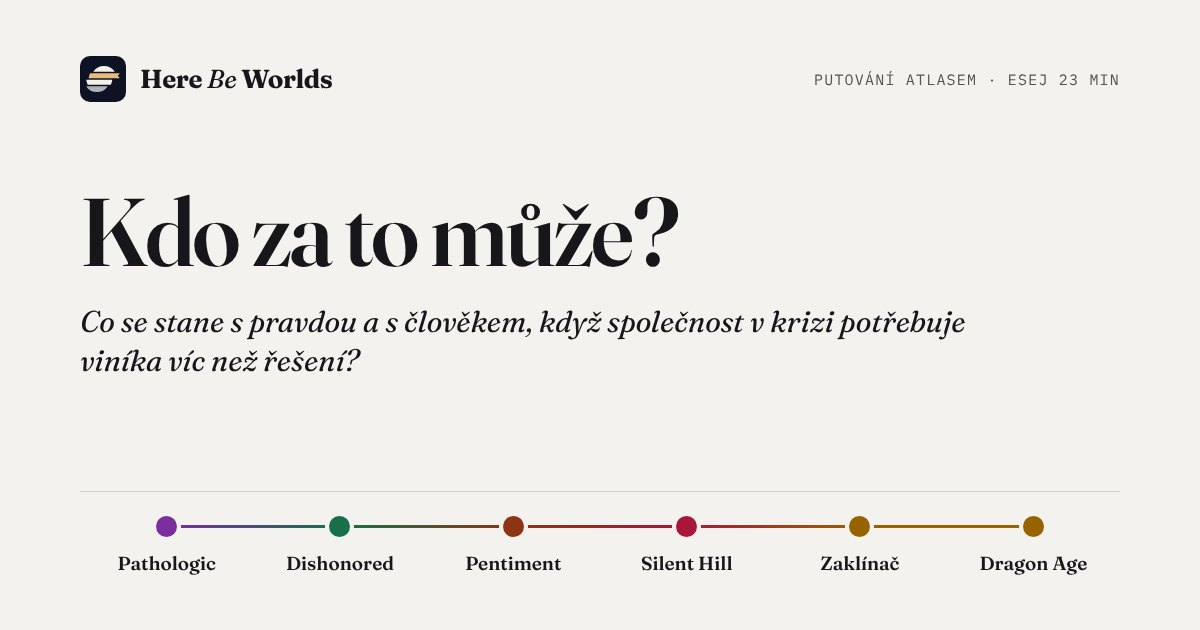
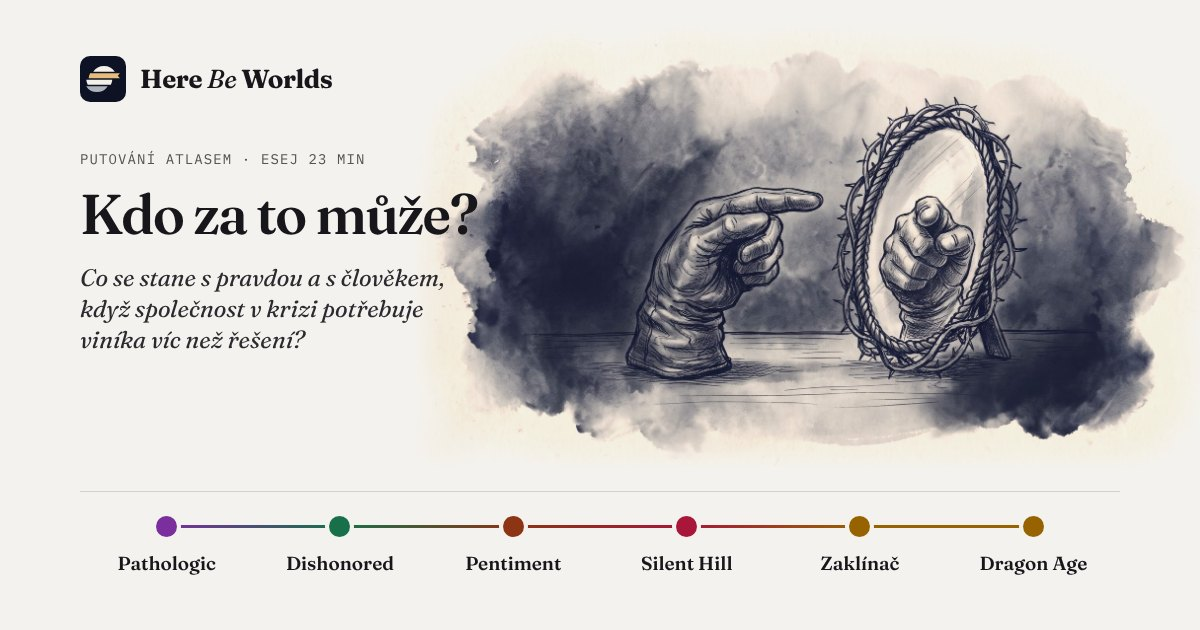
Obrázky k putování Kdo za to může?: zrcátko, koberec nad jámou, beránek z kouře
Claude-Session: https://claude.ai/code/session_01B7obWLKHHEWxurZ5a1svnf

diff --git a/src/lib/trail-images.ts b/src/lib/trail-images.ts
@@ -21,6 +21,7 @@ export const READY: Record<TrailId, number> = {
   'monster-mirror': 1,
   'god-corpse': 3,
   'knows-you-play': 3,
+  scapegoat: 3,
 };
 
 const DIR = 'putovani-obrazky';

diff --git a/CLAUDE.md b/CLAUDE.md
@@ -83,7 +83,7 @@ Kroniky a eseje **nejsou** v `data/`.
 | `/notes/` | `src/pages/notes/index.astro` | `NotesPage` — obsah oddílů (lepí se pod hlavičku, oddíl, který čteš, je podtržený; na telefonu jeden řádek posuvný do strany, 2026-11-25), rejstříkový seznam pojmů (štítek vlevo, výklad vpravo), legenda 1–5 jako pruh os; oddíly Charakter světa · Profil světa · Triáda (tři pojmy s odkazy do Anatomie a do Galerie triád / Mapy neznáma, pod nimi typy hříchů, dilemata, druhy tajemství a kdo drží mezeru s ikonami – texty z `triad-types.json`, 2026-11-24 se souhlasem majitele) · Příbuznost světů (4 pilíře, 5 stupňů slovy, bez procent) · Kompas a ladění · Hlubina času (2026-11-25 s pokynem majitele: šest pojmů – sloupec a hladina, období her a rysky, dějiny a fundamentální události, odhad, mýtus a cyklus, stupnice, naše časová osa – a odkaz na stránku; `noteDeepTime*`) · Kánon (texty v `data/meta/notes.ts`) |
 | `/anatomie-herniho-lore/` | `src/pages/anatomie-herniho-lore/index.astro` | `EssayPage` (obsah `ReadingToc` vlevo, čtecí sloupec jako kronika, doba čtení pod podtitulem) |
 | `/teoreticke-zazemi/` | `src/pages/teoreticke-zazemi/index.astro` | `EssayPage` z `content/essays/teoreticke-zazemi.md`: prameny atlasu po oblastech (fikční světy, fantastika, herní studia, hrůza a posvátno, mýtus, paměť, osoba a identita, moc a dohled, dílna tvůrců), tabulka pojmů, výhrady k autorům, co by sem ještě patřilo, seznam literatury. Odkaz z Anatomie (oddíl Na čem metoda stojí) a z patičky. **Po zapracování nové knihy doplnit i sem.** |
-| `/putovani/` | `src/pages/putovani/index.astro` | `TrailsIndex` (`src/components/trails/`, styly `trails.css`): hlavička jako atlas, filtry **Svět** a **Téma** (rozsvítí stezky, kterými svět prochází / které se tématu dotýkají, ostatní ztlumí; `?svet=<id>`, `?tema=<slug>`; klik na téma v řádku dělá totéž, jméno světa v kartě vede rovnou na spis světa (majitel 2026-11-24)); rejstřík 22 stezek jako **karty ve dvou sloupcích** (rozvržení C, majitel 2026-11-23; karta: obrázek nahoře přes celou šířku karty do ztracena, 3 : 2, pak název, popis, světy s linkou v barvě archetypu nad každým jménem, témata eseje jako hranaté štítky na tónovaném podkladu (vybrané téma v akcentu) = `themes` v `trails.ts`, 2–4 na stezku, a za nimi „Esej · N min“; karta bez obrázku je jen text; na telefonu jeden sloupec); oddíl **Kde se stezky kříží** (mřížka stezky × všechny světy podle abecedy, i ty na jediné stezce, vpravo počet (majitel 2026-11-22), tečka v barvě archetypu, pod kurzorem se rozsvítí sloupec i řádek, názvy stezek nahoře i dole; na telefonu seznam dvanácti nejvíc křížených světů). V hlavičce webu odkaz Putování hned za Atlasem; Putování dne na titulní straně vedou na stránky putování. Staré adresy `/stezky/…` přesměrovávají (`src/pages/stezky/`, `RedirectPage.astro`). Obrázky k putováním (jediné místo na webu s obrázky): styl a postup `docs/obrazky-putovani.md`, soubory `public/putovani-obrazky/`, seznam `READY` v `src/lib/trail-images.ts`; náhled v rejstříku (`TrailsIndex images`) a v eseji pod úvodním citátem a uprostřed (`EssayPage hero/hero2/heroLive`), okraj do ztracena maskou. Zatím Bohové jako břemeno, Dům, ze kterého nejde odejít, Pod lhostejnými hvězdami, Válka, kterou nikdo nevyhraje, Město, které dýchá, Uvězněni v kruhu, Mluví už jen mrtví, Netvor v zrcadle, Na mrtvole boha a Hra ví, že ji hraješ. Zkušební náhled `/putovani/navrh-obrazku/` (noindex). |
+| `/putovani/` | `src/pages/putovani/index.astro` | `TrailsIndex` (`src/components/trails/`, styly `trails.css`): hlavička jako atlas, filtry **Svět** a **Téma** (rozsvítí stezky, kterými svět prochází / které se tématu dotýkají, ostatní ztlumí; `?svet=<id>`, `?tema=<slug>`; klik na téma v řádku dělá totéž, jméno světa v kartě vede rovnou na spis světa (majitel 2026-11-24)); rejstřík 22 stezek jako **karty ve dvou sloupcích** (rozvržení C, majitel 2026-11-23; karta: obrázek nahoře přes celou šířku karty do ztracena, 3 : 2, pak název, popis, světy s linkou v barvě archetypu nad každým jménem, témata eseje jako hranaté štítky na tónovaném podkladu (vybrané téma v akcentu) = `themes` v `trails.ts`, 2–4 na stezku, a za nimi „Esej · N min“; karta bez obrázku je jen text; na telefonu jeden sloupec); oddíl **Kde se stezky kříží** (mřížka stezky × všechny světy podle abecedy, i ty na jediné stezce, vpravo počet (majitel 2026-11-22), tečka v barvě archetypu, pod kurzorem se rozsvítí sloupec i řádek, názvy stezek nahoře i dole; na telefonu seznam dvanácti nejvíc křížených světů). V hlavičce webu odkaz Putování hned za Atlasem; Putování dne na titulní straně vedou na stránky putování. Staré adresy `/stezky/…` přesměrovávají (`src/pages/stezky/`, `RedirectPage.astro`). Obrázky k putováním (jediné místo na webu s obrázky): styl a postup `docs/obrazky-putovani.md`, soubory `public/putovani-obrazky/`, seznam `READY` v `src/lib/trail-images.ts`; náhled v rejstříku (`TrailsIndex images`) a v eseji pod úvodním citátem a uprostřed (`EssayPage hero/hero2/heroLive`), okraj do ztracena maskou. Zatím Bohové jako břemeno, Dům, ze kterého nejde odejít, Pod lhostejnými hvězdami, Válka, kterou nikdo nevyhraje, Město, které dýchá, Uvězněni v kruhu, Mluví už jen mrtví, Netvor v zrcadle, Na mrtvole boha, Hra ví, že ji hraješ a Kdo za to může?. Zkušební náhled `/putovani/navrh-obrazku/` (noindex). |
 | `/putovani/[id]/` | `src/pages/putovani/[id].astro` | Stránka každého putování, adresa = český slug z `TRAIL_SLUGS` (`trails.ts`), stejný jako soubor eseje v `content/trails/`. `EssayPage` s `trail`: pod hlavičkou `TrailCast` (světy) a `TrailThemes` (témata → `/putovani/?tema=`), před Zdroji `TrailWorlds` (souřadnice s výraznými názvy, seznam světů s archetypem a podžánrem). **Esej se ukáže jen s `approved: true` ve frontmatteru** (schvaluje majitel); jinak stránka ukáže rámeček „Esej připravujeme“, Světy putování a oddíl „Na čem putování stojí“ (jména pramenů z tabulky Prameny podle stezek v `docs/prameny/README.md`, `trailSources` v `src/lib/trail-pages.ts`). Neschválené eseje mají náhled `/putovani/navrh/<slug>/` (`noindex`, z webu na něj nic nevede). Schválené (2026-11-21): `na-mrtvole-boha`, `kdo-za-to-muze`, `kdo-se-to-probudil`, `netvor-v-zrcadle`, `mluvi-uz-jen-mrtvi`, `bohove-jako-bremeno`, `valka-kterou-nikdo-nevyhraje`, `proklete-dedictvi`, `krehka-hranice-svobodne-vule`, `uvezneni-v-kruhu`, `hra-vi-ze-ji-hrajes`, `raj-ktery-se-nepovedl`, `logo-nad-troskami`, `smich-nad-propasti`, `mesto-ktere-dycha`, `pod-lhostejnymi-hvezdami`, `kdo-drzi-kroniku`, `kopie-bez-originalu`, `dum-ze-ktereho-nejde-odejit`, `prace-ktera-nikdy-nekonci`, `jmeno-jako-klic-i-kletba`, `nakaza-s-vlastni-vuli` (všech 22). |
 | `/temata/` | `src/pages/temata/index.astro` | `ThemesIndex` (`src/components/themes/`, styly `themes.css`, 2026-11-24): pás hlavičky, řazení Podle abecedy / Podle počtu světů, rejstřík témat ve dvou sloupcích (název → stránka tématu, otázka kurzívou, otisk světů jako čtverečky v barvě archetypu, počet světů a putování) a **Kde se témata potkávají** (trojúhelníková mřížka téma × téma, kruh podle počtu světů s oběma tématy, prázdné šrafované, najetí rozsvítí řádek i sloupec a vypíše dvojici; na telefonu skrytá). |
 | `/temata/[slug]/` | `src/pages/temata/[slug].astro` | `ThemePage`, adresa = český název bez diakritiky (`themePageSlug` v `src/lib/themes.ts`). Hlavička v pásu: štítek „Téma“ (odkaz na rejstřík), název, otázka, „N světů · N archetypů · N putování“, vpravo **obloha z titulní strany v tuši** (`ThemeSky`; hvězdy na stejných místech díky `src/lib/sky.ts`, světy tématu rozsvícené v barvě archetypu a spojené přerušovanou nejkratší trasou, ostatní tlumeně; najetí na hvězdu ukáže jméno). Oddíly: **Světy** (záznamy ve třech sloupcích: linka v barvě archetypu, název, archetyp · podžánr, jádro kurzívou; najetí rozsvítí hvězdu) · **Podoba tématu** (Archetypy: řádek na archetyp, čtverečky = všechny jeho světy, plné = s tématem; Souřadnice: `AxisRange` s prázdným kosočtvercem průměru celého atlasu `reference`) · **Putování** (putování s tématem v `trails.ts` `themes`, první obrázek přes masku, otázka eseje, trasa světů, světy tématu tučně) · **Potkává se s** (šest témat nejčastěji ve stejných světech, `neighbourThemes`; není to příbuznost světů) · odkazy Otevřít v atlasu · Všechna témata. Podklady skládá při sestavení `src/lib/theme-pages.ts`. Odkazy na stránky témat: hledání (lupa), atlas (Další pohledy a „O tématu …“ pod počtem výsledků při filtru tématu), patička. Témata na kartě světa vedou na stránky témat (majitel 2026-11-24). |

diff --git a/docs/obrazky-putovani.md b/docs/obrazky-putovani.md
@@ -21,7 +21,7 @@ Stav 2026-11-23: styl nalezený po pěti kolech zkoušek (náhled `/putovani/nav
 - Masky: `maska/<slug>-N.png` podle tuše pro tmavý motiv (`python3 scripts/ink-masks.py`, pak zkopírovat z `navrh-obrazku/maska/`, nebo upravit cestu ve skriptu), `maska/freska.png` obecná.
 - Které putování obrázky má: `READY` v `src/lib/trail-images.ts`. Obrázky se ukážou jen u schválené eseje.
 - Rejstřík `/putovani/` má rozvržení karet ve dvou sloupcích s obrázkem nahoře (C, vybráno ze tří variant: A obraz za textem, B střídavé desky). Dokud nemají obrázky všechna putování, stojí vedle karty s obrázkem textové karty.
-- Na webu (2026-11-23): Hra ví, že ji hraješ (městečko na jevišti s roztrženým namalovaným nebem; postavička vylezlá z ilustrace v knize; stín, který vypadl z obrazu na podlahu); Na mrtvole boha (tři: prázdný plášť na trůnu držený provazy davu; trůn, kterým prorůstá bříza; jablko s žebry místo jádřince); Netvor v zrcadle (zatím jeden: stopy ve sněhu, které se z bot mění v tlapy); Mluví už jen mrtví (tři: prázdný kabát, který ukazuje cestu; můra s křídly z deníku; potopená hlava sochy, z níž stoupají listy dopisu k loďce); Uvězněni v kruhu (tři: klíč stočený do kruhu se stínem rovného klíče; vajíčko ve vajíčku; z kouře dohořelé sirky nová sirka); Bohové jako břemeno (katedrála ze žeber, kamenné víčko); Město, které dýchá (domy, které se otáčejí za chodcem; most z dlažby, kořenů, copů a prádla); Dům, ze kterého nejde odejít (měsíc jako zlatá klíčová dírka nad městečkem, okno uprostřed pláně s pokojem uvnitř). Válka, kterou nikdo nevyhraje (tři obrázky: prapory z hejn ptáků, kolotoč z děl, kavalerie z rozbitých hodin se svíčkou v temnu); Pod lhostejnými hvězdami (žebřík opřený o nebe s prázdnými botami a lucernou, gramofon, ze kterého se sypou hvězdy, u táboráku). Postup: 5 motivů, vybrat 2. **Motivy: surrealismus a neobvyklé kompozice, klidně velké měřítko a zachycený pohyb (Magritte, Dalí), neobvyklé spojení předmětů (v duchu Magritta), jen lehce doslovné** — první kolo s doslovnými motivy (tapeta, dveře, kolébka) majitel zamítl jako nenápadité. Do promptu řádek `Mood: subtle surrealism in the spirit of Magritte: one unexpected combination, quiet and uncanny, never literal or explanatory. Rich in discoverable detail: several unexpected secondary motifs are woven into the main forms, so the viewer keeps finding new things on a second look.` Po přidání prvního obrázku obnovit kartu pro sdílení: `npm run og -- <slug> putovani` (fonty a Chromium viz CLAUDE.md). Masky: `python3 scripts/ink-masks.py public/putovani-obrazky/<slug>-1.jpg …`; když je světlý papír uprostřed součástí motivu (mezera mezi konci mostu), přidej `--fill`. Skript dělá dvě masky: `<soubor>.png` pro tmavý motiv a širokou `<soubor>-light.png` pro světlý (papír tam schová multiply a lehké vybělení `brightness(1.06) saturate(0.8)`, maska nesmí zamlžit slabé tahy; majitel 2026-11-23). Ve světlém motivu se v eseji kresba ořezává jen širokou maskou (fresková by ořízla tahy štětce nahoře a stopy u spodního okraje); v tmavém motivu (esej i rejstřík) jen fresková maska: tvar je vždy **zvlněný obdélník do ztracena**, nikdy vykrojený podle skvrn tuše (majitel 2026-11-23). Zkoušený okraj podle tahů štětce se světlým lemem majitel zamítl jako „příliš“: v tmavém motivu okraje nebudou tak působivé jako ve světlém a je to tak správně; v rejstříku zůstává i fresková (obrázek je tam oříznutý na 3 : 2).
+- Na webu (2026-11-23): Hra ví, že ji hraješ (městečko na jevišti s roztrženým namalovaným nebem; postavička vylezlá z ilustrace v knize; stín, který vypadl z obrazu na podlahu); Na mrtvole boha (tři: prázdný plášť na trůnu držený provazy davu; trůn, kterým prorůstá bříza; jablko s žebry místo jádřince); Netvor v zrcadle (zatím jeden: stopy ve sněhu, které se z bot mění v tlapy); Mluví už jen mrtví (tři: prázdný kabát, který ukazuje cestu; můra s křídly z deníku; potopená hlava sochy, z níž stoupají listy dopisu k loďce); Uvězněni v kruhu (tři: klíč stočený do kruhu se stínem rovného klíče; vajíčko ve vajíčku; z kouře dohořelé sirky nová sirka); Bohové jako břemeno (katedrála ze žeber, kamenné víčko); Město, které dýchá (domy, které se otáčejí za chodcem; most z dlažby, kořenů, copů a prádla); Dům, ze kterého nejde odejít (měsíc jako zlatá klíčová dírka nad městečkem, okno uprostřed pláně s pokojem uvnitř). Válka, kterou nikdo nevyhraje (tři obrázky: prapory z hejn ptáků, kolotoč z děl, kavalerie z rozbitých hodin se svíčkou v temnu); Pod lhostejnými hvězdami (žebřík opřený o nebe s prázdnými botami a lucernou, gramofon, ze kterého se sypou hvězdy, u táboráku); Kdo za to může? (tři: prázdná rukavice ukazuje na zrcátko a odraz ukazuje zpět na diváka; koberec, pod jehož rohem je jáma se schody a koště z brků; z hranice srolovaných dopisů odplouvá kouř jako spící beránek, 2026-11-25). Postup: 5 motivů, vybrat 2. **Motivy: surrealismus a neobvyklé kompozice, klidně velké měřítko a zachycený pohyb (Magritte, Dalí), neobvyklé spojení předmětů (v duchu Magritta), jen lehce doslovné** — první kolo s doslovnými motivy (tapeta, dveře, kolébka) majitel zamítl jako nenápadité. Do promptu řádek `Mood: subtle surrealism in the spirit of Magritte: one unexpected combination, quiet and uncanny, never literal or explanatory. Rich in discoverable detail: several unexpected secondary motifs are woven into the main forms, so the viewer keeps finding new things on a second look.` Po přidání prvního obrázku obnovit kartu pro sdílení: `npm run og -- <slug> putovani` (fonty a Chromium viz CLAUDE.md). Masky: `python3 scripts/ink-masks.py public/putovani-obrazky/<slug>-1.jpg …`; když je světlý papír uprostřed součástí motivu (mezera mezi konci mostu), přidej `--fill`. Skript dělá dvě masky: `<soubor>.png` pro tmavý motiv a širokou `<soubor>-light.png` pro světlý (papír tam schová multiply a lehké vybělení `brightness(1.06) saturate(0.8)`, maska nesmí zamlžit slabé tahy; majitel 2026-11-23). Ve světlém motivu se v eseji kresba ořezává jen širokou maskou (fresková by ořízla tahy štětce nahoře a stopy u spodního okraje); v tmavém motivu (esej i rejstřík) jen fresková maska: tvar je vždy **zvlněný obdélník do ztracena**, nikdy vykrojený podle skvrn tuše (majitel 2026-11-23). Zkoušený okraj podle tahů štětce se světlým lemem majitel zamítl jako „příliš“: v tmavém motivu okraje nebudou tak působivé jako ve světlém a je to tak správně; v rejstříku zůstává i fresková (obrázek je tam oříznutý na 3 : 2).
 
 ## Jak generovat
 
